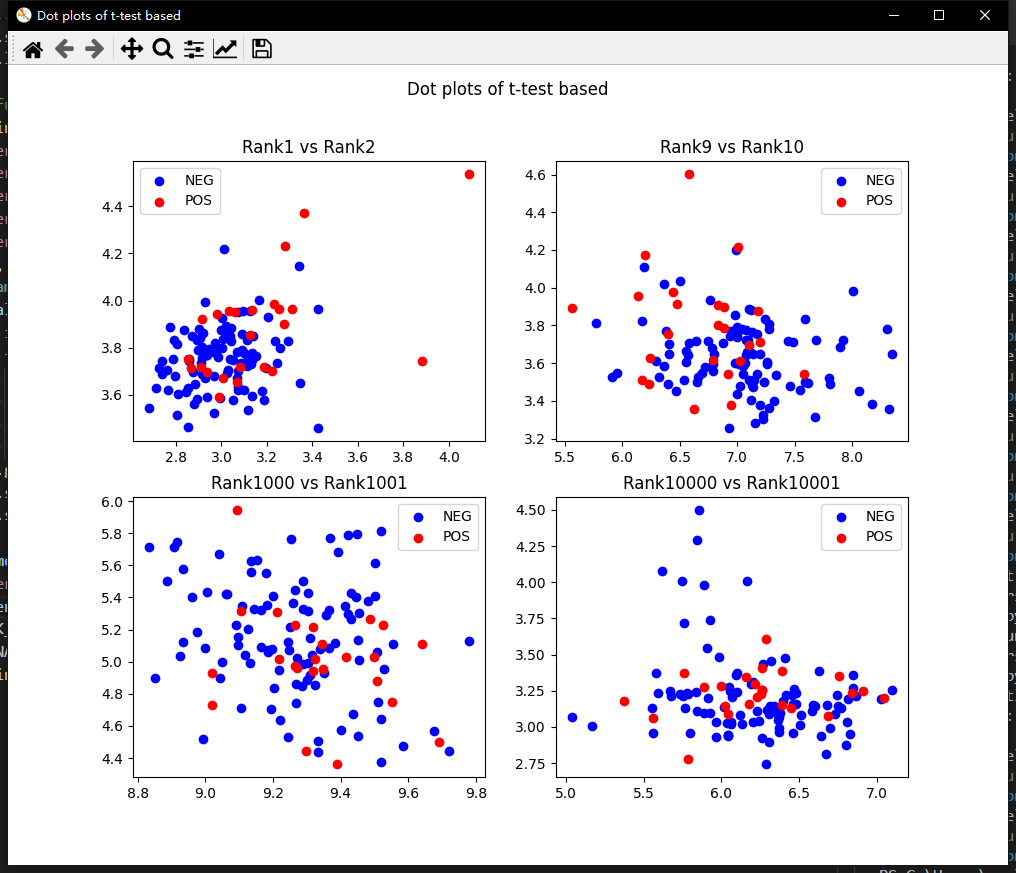
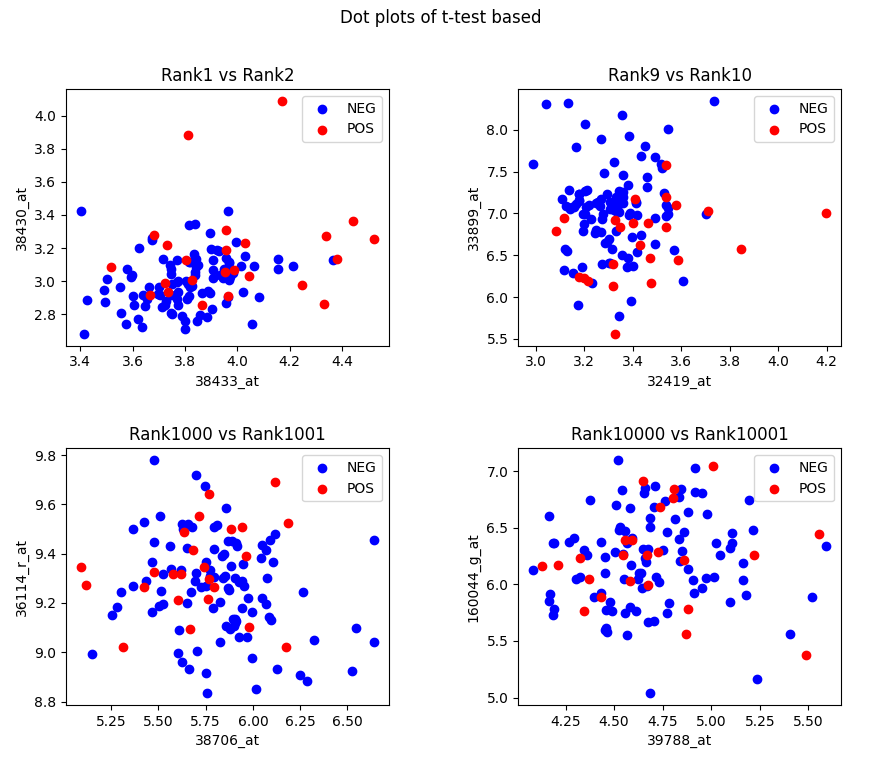
+FeatureSelection

diff --git a/Question7/ProjectData/CODE/RunSvmOnTestSong.py b/Question7/ProjectData/CODE/RunSvmOnTestSong.py
@@ -1,0 +1,73 @@
+from DataLoader        import dataLoader, getSvcOnData
+from SampleRateChecker import getRootFilePath
+from pydub             import AudioSegment
+from CalcMFCC          import solveMFCC
+
+import os
+TIME_SPEC = 2 # second, DO NOT CHANGE THIS
+
+# 从文件数据获得 SVM （建议从含 BGM 的数据中获得）
+# svm = getSvmFromFile(filename)
+def getSvmFromFile(filename):
+    _, tClass, tFeatures = dataLoader(filename)
+    svm = getSvcOnData(tClass, tFeatures)
+    return svm
+
+# 难以复用的模块
+# svm = getSvmFromMfccRaw()
+def getSvmFromMfccRaw():
+    rootDir  = getRootFilePath()
+    filename = os.path.join(rootDir, "DATA/MFCC_ALPHA.txt")
+    svm = getSvmFromFile(filename)
+    return svm
+
+# 读取音频，切分音频，给出间奏判断序列
+# tagList = RunSvmOnSong(songFileName)
+def RunSvmOnSong(svm, songFileName):
+    rootDir     = getRootFilePath()
+    audio       = AudioSegment.from_file(songFileName, format="mp3")
+    totalLen    = len(audio)
+    tmpFileName = os.path.join(rootDir, "TEMPDIR/temp.mp3")
+    startTime   = 0
+    TIME_SPECMs = TIME_SPEC * 1000
+    tagList     = []
+    while startTime + TIME_SPECMs < totalLen:
+        print("    ----- %10.3lf" % (startTime / totalLen))
+        segment = audio[startTime: startTime + TIME_SPECMs]
+        segment.export(tmpFileName, format="mp3")
+        mfccs = solveMFCC(tmpFileName).reshape((-1,1)).T
+        ans   = svm.predict(mfccs)
+        tagList.append(ans[0])
+        startTime += TIME_SPECMs
+    return tagList
+
+# 分析 tagList 中最长连续零的片段，并认为这段片段是我选取的音频片段
+# bestPos, bestRecord = tagListZeroAnalysis(tagList)
+def tagListZeroAnalysis(tagList: list):
+    posNow = -1
+    record = {}
+    for i in range(len(tagList)):
+        dataNow = tagList[i]
+        if dataNow == 1:
+            posNow = -1
+        else: # dataNow = 0
+            if posNow == -1: # beginning
+                posNow = i
+                record[i] = 1
+            else: # middle
+                record[posNow] += 1
+    bestRecord = 0
+    bestPos    = -1
+    for x in record:
+        if record[x] > bestRecord:
+            bestRecord = record[x]
+            bestPos    = x
+    return bestPos, bestRecord
+
+if __name__ == "__main__":
+    rootDir  = getRootFilePath()
+    test0001 = os.path.join(rootDir, "TESTMP3/TEST_0001.mp3")
+    svm      = getSvmFromMfccRaw()
+    tagList  = RunSvmOnSong(svm, test0001)
+    bestPos, bestRecord = tagListZeroAnalysis(tagList)
+    print((bestPos, bestRecord))

diff --git a/Question7/ProjectData/CODE/MFCCStat.py b/Question7/ProjectData/CODE/MFCCStat.py
@@ -1,0 +1,59 @@
+import numpy as np
+import os
+
+from DataLoader              import dataLoader, testSVC, calculateFromConfusionMatrix
+from SampleRateChecker       import getRootFilePath
+from sklearn.model_selection import train_test_split
+
+# 从数据矩阵中获取每行的最小值最大值均值和标准差
+# abstractMatrix = getMinMaxMeanStd(tFeatures)
+def getMinMaxMeanStd(tFeatures: np.ndarray):
+    tMin  = np.min (tFeatures, axis=1)
+    tMax  = np.max (tFeatures, axis=1)
+    tMean = np.mean(tFeatures, axis=1)
+    tStd  = np.var (tFeatures, axis=1) ** 0.5
+    return np.c_[tMin, tMax, tMean, tStd]
+
+# 从文件读取数据并进行抽象化
+# tSample, tClass, abstractData = getAbstractDataFromFile(filename)
+def getAbstractDataFromFile(filename):
+    tSample, tClass, tFeatures = dataLoader(filename)
+    assert tFeatures.shape[1] == 13 * 87
+    abstFeatures = []
+    for i in range(len(tFeatures)):
+        rawData         = tFeatures[i].reshape((13, 87))
+        abstractRawData = getMinMaxMeanStd(rawData)
+        abstFeatures.append(abstractRawData.reshape((-1, 1)).squeeze())
+    return tSample, tClass, np.array(abstFeatures)
+
+# 此函数不考虑复用性
+def createAbstractDataFile():
+    rootDir    = getRootFilePath()
+    dataFile   = os.path.join(rootDir, "DATA/MFCC_ALPHA.txt")
+    outputFile = os.path.join(rootDir, "DATA/MFCC_ALPHA_ABSTRACT.txt")
+    tSample, tClass, abstractData = getAbstractDataFromFile(dataFile)
+    fp = open(outputFile, "w")
+    for indx in range(len(tSample)):
+        fp.write("%20s %4s " % (tSample[indx], tClass[indx]))
+        for j in range(abstractData.shape[1]):
+            fp.write("%15f " % abstractData[indx, j])
+        fp.write("\n")
+    fp.close()
+
+# 此函数不考虑复用性
+def testSvmOnAbstractData(testSize: float):
+    rootDir  = getRootFilePath()
+    dataFile = os.path.join(rootDir, "DATA/MFCC_ALPHA.txt")
+    tSample, tClass, abstractData = getAbstractDataFromFile(dataFile)
+    tn, fp, fn, tp = testSVC(tSample, tClass, abstractData, testSize)
+    sn, sp, acc, avc, mcc = calculateFromConfusionMatrix(tn, fp, fn, tp)
+    print({
+        "sn" :  sn,
+        "sp" :  sp,
+        "acc": acc,
+        "avc": avc,
+        "mcc": mcc
+    })
+
+if __name__ == "__main__":
+    createAbstractDataFile()

diff --git a/Question7/ProjectData/CODE/SvmOnSelectedFeature.py b/Question7/ProjectData/CODE/SvmOnSelectedFeature.py
@@ -1,0 +1,54 @@
+import json
+from DataLoader        import dataLoader, testSVC, calculateFromConfusionMatrix
+from SampleRateChecker import getRootFilePath
+
+import os
+import numpy as np
+
+# 获得最优特征列表
+# featureIdList = getTopFeatureIdList()
+def getTopFeatureIdList():
+    rtDir  = getRootFilePath()
+    lsFile = os.path.join(rtDir, "DATA/MFCC_ABSTRACT_BEST_FEATURE_ID.json")
+    return json.load(open(lsFile))
+
+# 内部使用
+# tSample, tClass, tFeature = getDataWithTopNFeature(filename, N)
+def getDataWithTopNFeature(filename, N: int):
+    tSample, tClass, tFeatures = dataLoader(filename)
+    assert tFeatures.shape[1] == 52
+    featureIdList = np.array(getTopFeatureIdList()[:N])
+    return tSample, tClass, tFeatures[:, featureIdList]
+
+# 获取特征选择，选择了最优 N 个特征后的摘要数据集
+# tSample, tClass, tSelectedFeature = getDataWithTopNFeature(filename, N)
+def getAbstractDataWithTopNFeature(N: int):
+    rtDir     = getRootFilePath()
+    filename  = os.path.join(rtDir, "DATA/MFCC_ALPHA_ABSTRACT.txt")
+    tSample, tClass, tFeatures = dataLoader(filename)
+    assert tFeatures.shape[1] == 52
+    featureIdList = np.array(getTopFeatureIdList()[:N])
+    return tSample, tClass, tFeatures[:, featureIdList]
+
+# 在含前 N 个最优特征的数据集上测试 SVC
+def testSvcOnTopNFeature(N: int, testSize: float):
+    tSample, tClass, tSelectedFeature = getAbstractDataWithTopNFeature(N)
+    tn, fp, fn, tp = testSVC(tSample, tClass, tSelectedFeature, testSize)
+    sn, sp, acc, avc, mcc = calculateFromConfusionMatrix(tn, fp, fn, tp)
+    return {
+        "sn": sn,
+        "sp": sp,
+        "acc": acc,
+        "avc": avc,
+        "mcc": mcc
+    }
+
+if __name__ == "__main__":
+    dic = {}
+    rtDir     = getRootFilePath()
+    filename  = os.path.join(rtDir, "DATA/MFCC_ALPHA_ABSTRACT_SELECTED_PREFIX.json")
+    for n in range(1, 52 + 1):
+        dic[n] = testSvcOnTopNFeature(n, 0.2)
+        print(dic[n])
+    with open(filename, "w") as fp:
+        json.dump(dic, fp, indent=4)

diff --git a/Question7/ProjectData/CODE/FeatureSelection.py b/Question7/ProjectData/CODE/FeatureSelection.py
@@ -1,0 +1,47 @@
+from DataLoader        import dataLoader
+from SampleRateChecker import getRootFilePath
+from scipy             import stats
+import numpy as np
+import os
+import json
+
+# (posSet, negSet) = splitPosAndNeg(tMatrix, tClass)
+def splitPosAndNeg(tMatrix, tClass):
+    assert type(tMatrix) == np.ndarray
+    assert type(tClass) == np.ndarray
+    return (
+        tMatrix[tClass == "POS", :],
+        tMatrix[tClass == "NEG", :]
+    )
+
+# (tValue, pValue) = ttest(posSet, negSet)
+def ttest(posSet, negSet):
+    tValues, pValues = stats.ttest_ind(posSet.T, negSet.T, axis=1, equal_var=True, nan_policy='propagate')
+    return tValues, pValues
+
+# topFeatureId = topFeatureId(tValue)
+def getTopFeatureId(pValue, topN = 10):
+    tValueSorted = list(enumerate(pValue))
+    tValueSorted.sort(key=lambda x:x[1])
+    return tValueSorted[:topN]
+
+# featureIdList = showTopFeaturesInDataFile(filename)
+def showTopFeaturesInDataFile(filename: str):
+    assert type(filename) == str
+    tSample, tClass, tMatrix = dataLoader(filename)
+    posSet, negSet = splitPosAndNeg(tMatrix, tClass)
+    tValues, pValues = ttest(posSet, negSet)
+    topFeatureId = getTopFeatureId(pValues, topN = 52)
+    featureIdList = []
+    for featureId, pValue in topFeatureId:
+        print("featureId = %6d, pValue = %.30f, tValue = %10.6f" % (featureId, pValue, tValues[featureId]))
+        featureIdList.append(featureId)
+    return featureIdList
+
+if __name__ == "__main__":
+    rtDir         = getRootFilePath()
+    dataFile      = os.path.join(rtDir, "DATA/MFCC_ALPHA_ABSTRACT.txt")
+    outputFile    = os.path.join(rtDir, "DATA/MFCC_ABSTRACT_BEST_FEATURE_ID.json")
+    featureIdList = showTopFeaturesInDataFile(dataFile)
+    with open(outputFile, "w") as fp:
+        json.dump(featureIdList, fp)

diff --git a/Question5/Code.py b/Question5/Code.py
@@ -48,14 +48,17 @@ def fGetTopFeatures(filename: str, showList=False):
     return topFeatureId
 
 # draw a scatter on a subplot(axs)
-def fShowScatterOnPlot(plt, featureIdX: int, featureIdY: int, tMatrix: np.ndarray, tClass: np.ndarray):
+def fShowScatterOnPlot(plt, featureIdX: int, featureIdY: int, tMatrix: np.ndarray, tClass: np.ndarray, tFeature: np.ndarray):
     assert type(featureIdX) == int
     assert type(featureIdY) == int
     assert type(tMatrix)    == np.ndarray
     assert type(tClass)     == np.ndarray
+    assert type(tFeature)   == np.ndarray
     (posSet, negSet) = fSplitPosAndNeg(tMatrix, tClass)
     plt.scatter(negSet[featureIdX], negSet[featureIdY], c="blue", label="NEG")
     plt.scatter(posSet[featureIdX], posSet[featureIdY], c="red" , label="POS")
+    plt.set_xlabel(tFeature[featureIdX])
+    plt.set_ylabel(tFeature[featureIdY])
     plt.legend()
 
 # this function is only used in the current program
@@ -71,11 +74,12 @@ def fMainPlotFunction(filename: str, rankPair: list, figName:str):
     for i in range(2):
         for j in range(2):
             rkX, rkY = rankPair[i][j]
-            idX, idY = map(lambda x: tPValueList[x][0], rankPair[i][j])
-            fShowScatterOnPlot(axs[i, j], idX, idY, tMatrix, tClass)
+            idX, idY = map(lambda x: tPValueList[x - 1][0], rankPair[i][j])
+            fShowScatterOnPlot(axs[i, j], idX, idY, tMatrix, tClass, tFeature)
             axs[i, j].set_title("Rank" + str(rkX) + " vs " + "Rank" + str(rkY))
-    plt.gcf().canvas.set_window_title(figName)
+    # plt.gcf().canvas.set_window_title(figName)
     fig.suptitle(figName)
+    fig.subplots_adjust(wspace=0.4, hspace=0.4)
     plt.show()
 
 if __name__ == "__main__":

diff --git a/Question7/ProjectData/CODE/DataLoader.py b/Question7/ProjectData/CODE/DataLoader.py
@@ -50,6 +50,21 @@ def testSVC(tSample, tClass, tFeatures, testSize: float):
     tn, fp, fn, tp = confusion_matrix(yTest, yPred).ravel()
     return (tn, fp, fn, tp)
 
+# 根据数据获得支持向量机
+# svm = getSvcOnData(tClass, tFeatures)
+def getSvcOnData(tClass, tFeatures):
+    assert type(tClass   ) == np.ndarray
+    assert type(tFeatures) == np.ndarray
+    xData       = tFeatures
+    yData       = (tClass == "POS").astype(int)
+    classWeight = {
+        0: np.sum(yData), 
+        1: len(yData) - np.sum(yData)
+    }
+    svc = SVC(kernel="rbf", class_weight=classWeight)
+    svc.fit(xData, yData)
+    return svc
+
 # 使用线性核函数的支持向量机进行测试
 # tn, fp, fn, tp = testSVC(tSample, tClass, tFeatures)
 def testSVCFull(tSample, tClass, tFeatures):
@@ -68,7 +83,7 @@ def testSVCFull(tSample, tClass, tFeatures):
     tn, fp, fn, tp = confusion_matrix(yData, yPred).ravel()
     return (tn, fp, fn, tp)
 
-# sn, sp, acc, avc, mcc = fCalculateFromConfusionMatrix(tn, fp, fn, tp)
+# sn, sp, acc, avc, mcc = calculateFromConfusionMatrix(tn, fp, fn, tp)
 def calculateFromConfusionMatrix(tn: float, fp: float, fn: float, tp: float):
     sn  = tp / (tp + fn)
     sp  = tn / (tn + fp)
@@ -79,7 +94,6 @@ def calculateFromConfusionMatrix(tn: float, fp: float, fn: float, tp: float):
 
 # 在某个数据文件上测试 SVC 的效果，可复用
 def testSVConFile(filename):
-    rootDir  = getRootFilePath()
     tSample, tClass, tFeatures = dataLoader(filename)
     tn, fp, fn, tp = testSVC(tSample, tClass, tFeatures, 0.2)
     sn, sp, acc, avc, mcc = calculateFromConfusionMatrix(tn, fp, fn, tp)

diff --git a/Question7/ProjectData/CODE/PlotHistogramDemo.py b/Question7/ProjectData/CODE/PlotHistogramDemo.py
@@ -11,14 +11,14 @@ ALPHA = 0.3
 
 if __name__ == "__main__":
     rootDir  = getRootFilePath()
-    dataFile = os.path.join(rootDir, "DATA/MFCC_ALPHA.txt") 
+    dataFile = os.path.join(rootDir, "DATA/MFCC_VOCAL_ALPHA.txt") 
     arrPos = []                 # Pos 
     arrNeg = []                 # Neg
     arrAll = []                 # All
     tSample, tClass, tFeatures = dataLoader(dataFile)
     for indx in range(len(tClass)):
         dataNow = tFeatures[indx].reshape((13, 87))
-        maxNow  = np.mean(dataNow[0, :])
+        maxNow  = np.max(dataNow)
         if tClass[indx] == "POS":
             arrPos.append(maxNow)
         else:

diff --git a/Question7/ProjectData/TESTMP3/README.md b/Question7/ProjectData/TESTMP3/README.md
@@ -1,0 +1,8 @@
+## TEST_MP3
+
+| ID        | NAME                                    | URL                                          |
+| --------- | --------------------------------------- | -------------------------------------------- |
+| TEST_0001 | 「我推的孩子」OP主题曲「アイドル/偶像」 | https://www.bilibili.com/video/BV1H24y1w7B6/ |
+|           |                                         |                                              |
+|           |                                         |                                              |
+
